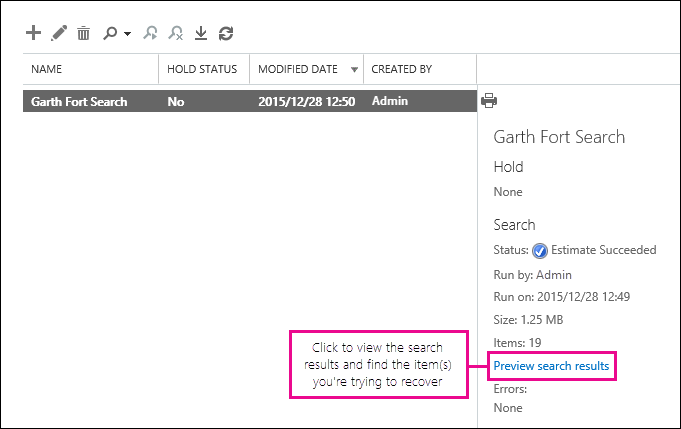
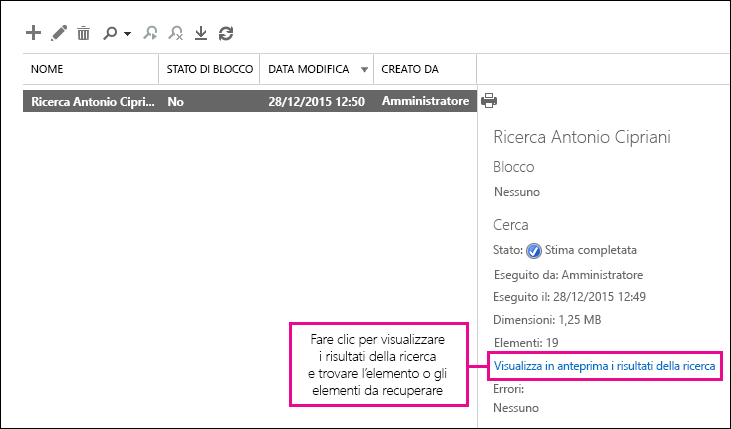
commit translated contents

diff --git a/Enterprise/deploy-high-availability-federated-authentication-for-office-365-in-azure.md b/Enterprise/deploy-high-availability-federated-authentication-for-office-365-in-azure.md
@@ -3,7 +3,7 @@ title: Distribuire l'autenticazione federata ad alta visibilità per Office 365 
 ms.author: josephd
 author: JoeDavies-MSFT
 manager: laurawi
-ms.date: 04/06/2018
+ms.date: 11/25/2019
 audience: ITPro
 ms.topic: article
 ms.service: o365-solutions
@@ -17,17 +17,15 @@ ms.custom:
 - Ent_Solutions
 ms.assetid: 34b1ab9c-814c-434d-8fd0-e5a82cd9bff6
 description: "Riepilogo: Configurare l'autenticazione federata a disponibilità elevata per l'abbonamento a Office 365 in Microsoft Azure."
-ms.openlocfilehash: ba8049271e4820cca8db2ce5d6cabf76dacfb36a
-ms.sourcegitcommit: 9c9982badeb95b8ecc083609a1a922cbfdfc9609
+ms.openlocfilehash: 0b622c895bcd6b11ee7e096ac1e39f1b6bd2dae2
+ms.sourcegitcommit: fbd2f3fb297c508212baed3ee9d1ce51765cc8bb
 ms.translationtype: HT
 ms.contentlocale: it-IT
-ms.lasthandoff: 11/21/2019
-ms.locfileid: "38793288"
+ms.lasthandoff: 11/25/2019
+ms.locfileid: "39254515"
 ---
-# <a name="deploy-high-availability-federated-authentication-for-office-365-in-azure"></a>Distribuire l'autenticazione federata ad alta visibilità per Office 365 in Azure
+# <a name="deploy-high-availability-federated-authentication-for-office-365-in-azure"></a>Distribuire l'autenticazione federata a disponibilità elevata per Office 365 in Azure
 
- **Riepilogo:** Configurare l'autenticazione federata a disponibilità elevata per l'abbonamento a Office 365 in Microsoft Azure.
-  
 In questo articolo sono riportati i collegamenti a istruzioni dettagliate per la distribuzione dell'autenticazione federata a disponibilità elevata per Microsoft Office 365 in servizi infrastruttura di Azure con queste macchine virtuali:
   
 - Due server proxy di applicazione Web
@@ -36,7 +34,7 @@ In questo articolo sono riportati i collegamenti a istruzioni dettagliate per la
     
 - Due controller di dominio di replica
     
-- Un server di sincronizzazione della directory (DirSync) che esegue Azure AD Connect
+- Un server di sincronizzazione della directory che esegue Azure AD Connect
     
 Di seguito viene riportata la configurazione, con i nomi segnaposto per ogni server.
   
@@ -90,7 +88,7 @@ Distribuire il carico di lavoro nelle fasi seguenti:
   
 - [Fase 1: configurare Azure](high-availability-federated-authentication-phase-1-configure-azure.md). Creare gruppi di risorse, account di archiviazione, set di disponibilità e una rete virtuale cross-premise.
     
-- [Fase 2: configurare i controller di dominio](high-availability-federated-authentication-phase-2-configure-domain-controllers.md). Creare e configurare i controller di dominio di Windows Server Active Directory (AD DS) di replica e il server DirSync.
+- [Fase 2: configurare i controller di dominio](high-availability-federated-authentication-phase-2-configure-domain-controllers.md). Creare e configurare i controller di dominio di Active Directory Domain Services di replica e il server di sincronizzazione della directory.
     
 - [Fase 3: configurare i server AD FS](high-availability-federated-authentication-phase-3-configure-ad-fs-servers.md). Creare e configurare i due server AD FS.
     
@@ -108,5 +106,5 @@ Per creare un ambiente di sviluppo e di testing o modello di verifica di questa 
   
 ## <a name="next-step"></a>Passaggio successivo
 
-Iniziare la configurazione di questo carico di lavoro con [Fase 1 dell'autenticazione federata a disponibilità elevata: Configurare Azure](high-availability-federated-authentication-phase-1-configure-azure.md). 
+Iniziare la configurazione di questo carico di lavoro con la [Fase 1: configurare Azure](high-availability-federated-authentication-phase-1-configure-azure.md). 
   

diff --git a/Enterprise/TOC.md b/Enterprise/TOC.md
@@ -158,11 +158,11 @@
 #### [Connettere una rete locale a una rete virtuale di Azure](connect-an-on-premises-network-to-a-microsoft-azure-virtual-network.md)
 #### [Distribuire un server di sincronizzazione directory in Azure IaaS](deploy-office-365-directory-synchronization-dirsync-in-microsoft-azure.md)
 #### [Distribuire l'autenticazione federata a disponibilità elevata per Office 365 in Azure](deploy-high-availability-federated-authentication-for-office-365-in-azure.md)
-##### [Fase 1 dell'autenticazione federata a disponibilità elevata: configurare Azure](high-availability-federated-authentication-phase-1-configure-azure.md)
-##### [Fase 2 dell'autenticazione federata a disponibilità elevata: configurare i controller di dominio](high-availability-federated-authentication-phase-2-configure-domain-controllers.md)
-##### [Fase 3 dell'autenticazione federata a disponibilità elevata: configurare i server AD FS](high-availability-federated-authentication-phase-3-configure-ad-fs-servers.md)
-##### [Fase 4 dell'autenticazione federata a disponibilità elevata: configurare i proxy applicazione Web](high-availability-federated-authentication-phase-4-configure-web-application-pro.md)
-##### [Fase 5 dell'autenticazione federata a disponibilità elevata: configurare l'autenticazione federata per Office 365](high-availability-federated-authentication-phase-5-configure-federated-authentic.md)
+##### [Fase 1: configurare Azure](high-availability-federated-authentication-phase-1-configure-azure.md)
+##### [Fase 2: configurare i controller di dominio](high-availability-federated-authentication-phase-2-configure-domain-controllers.md)
+##### [Fase 3: configurare i server AD FS](high-availability-federated-authentication-phase-3-configure-ad-fs-servers.md)
+##### [Fase 4: configurare i proxy applicazione Web](high-availability-federated-authentication-phase-4-configure-web-application-pro.md)
+##### [Fase 5: configurare l'autenticazione federata](high-availability-federated-authentication-phase-5-configure-federated-authentic.md)
 
 # Gestire Office 365
 

diff --git a/Enterprise/subscriptions-licenses-accounts-and-tenants-for-microsoft-cloud-offerings.md b/Enterprise/subscriptions-licenses-accounts-and-tenants-for-microsoft-cloud-offerings.md
@@ -17,12 +17,12 @@ ms.custom:
 - Ent_Architecture
 ms.assetid: c720cffc-f9b5-4f43-9100-422f86a1027c
 description: 'Riepilogo: comprendere le relazioni delle organizzazioni, le sottoscrizioni, le licenze, gli account utente e i tenant tra le offerte cloud di Microsoft.'
-ms.openlocfilehash: c6c6aa02701d47c5818f66d2f0e499e7a85cb902
-ms.sourcegitcommit: 546080809d4f8ee4954943738906eec6c9bac1d8
+ms.openlocfilehash: 3e10ed7752fc4763aef77c7cb683532cf0d5c2ce
+ms.sourcegitcommit: fbd2f3fb297c508212baed3ee9d1ce51765cc8bb
 ms.translationtype: HT
 ms.contentlocale: it-IT
-ms.lasthandoff: 10/21/2019
-ms.locfileid: "37616149"
+ms.lasthandoff: 11/25/2019
+ms.locfileid: "39254585"
 ---
 # <a name="subscriptions-licenses-accounts-and-tenants-for-microsofts-cloud-offerings"></a>Sottoscrizioni, licenze, account e tenant per offerte cloud di Microsoft
 
@@ -77,7 +77,7 @@ Alcune immagini della macchina virtuale dispongono di versioni di prova delle ap
   
 ### <a name="user-accounts"></a>Account utente
 
-Gli account utente per tutte le offerte cloud di Microsoft sono archiviati in un tenant di Azure Active Directory (Azure AD) che include gli account utente e i gruppi. Un tenant di Azure AD può essere sincronizzato con gli account Active Directory Domain Services (AD DS) esistenti tramite Azure AD Connect, un servizio basato su server di Windows. Si tratta della cosiddetta sincronizzazione della directory (DirSync).
+Gli account utente per tutte le offerte cloud di Microsoft sono archiviati in un tenant di Azure Active Directory (Azure AD) che include gli account utente e i gruppi. Un tenant di Azure AD può essere sincronizzato con gli account Active Directory Domain Services (AD DS) esistenti tramite Azure AD Connect, un servizio basato su server di Windows. Si tratta della cosiddetta sincronizzazione della directory.
   
 Nella figura 3 viene mostrato un esempio di più sottoscrizioni di un'organizzazione che usa un tenant Azure AD comune, il quale include gli account dell'organizzazione.
   

diff --git a/Enterprise/connect-an-on-premises-network-to-a-microsoft-azure-virtual-network.md b/Enterprise/connect-an-on-premises-network-to-a-microsoft-azure-virtual-network.md
@@ -17,12 +17,12 @@ ms.custom:
 - Ent_Solutions
 ms.assetid: 81190961-5454-4a5c-8b0e-6ae75b9fb035
 description: 'Riepilogo: informazioni su come configurare una rete virtuale di Azure cross-premise per i carichi di lavoro del server di Office con una connessione VPN da sito a sito.'
-ms.openlocfilehash: 3506b1b4c6a88567bf216957f5e083c9e99156ba
-ms.sourcegitcommit: 9c9982badeb95b8ecc083609a1a922cbfdfc9609
+ms.openlocfilehash: 34d7b7310fd0828732e288f090314b8689953b50
+ms.sourcegitcommit: fbd2f3fb297c508212baed3ee9d1ce51765cc8bb
 ms.translationtype: HT
 ms.contentlocale: it-IT
-ms.lasthandoff: 11/21/2019
-ms.locfileid: "38793338"
+ms.lasthandoff: 11/25/2019
+ms.locfileid: "39254595"
 ---
 # <a name="connect-an-on-premises-network-to-a-microsoft-azure-virtual-network"></a>Connettere una rete locale a una rete virtuale di Microsoft Azure
 
@@ -207,7 +207,7 @@ Di seguito è riportata la configurazione risultante.
 ### <a name="phase-2-create-the-cross-premises-virtual-network-in-azure"></a>Fase 2: creare la rete virtuale cross-premise in Azure
 <a name="Phase2"></a>
 
-Per prima cosa, aprire un prompt di Azure PowerShell. Se Azure PowerShell non è installato, vedere [Panoramica di Azure PowerShell](https://docs.microsoft.com/powershell/azureps-cmdlets-docs/).
+Per prima cosa, aprire un prompt di Azure PowerShell. Se Azure PowerShell non è installato, vedere [Panoramica di Azure PowerShell](https://docs.microsoft.com/powershell/azure/get-started-azureps).
 
  
 Successivamente, accedere al proprio account di Azure con questo comando.
